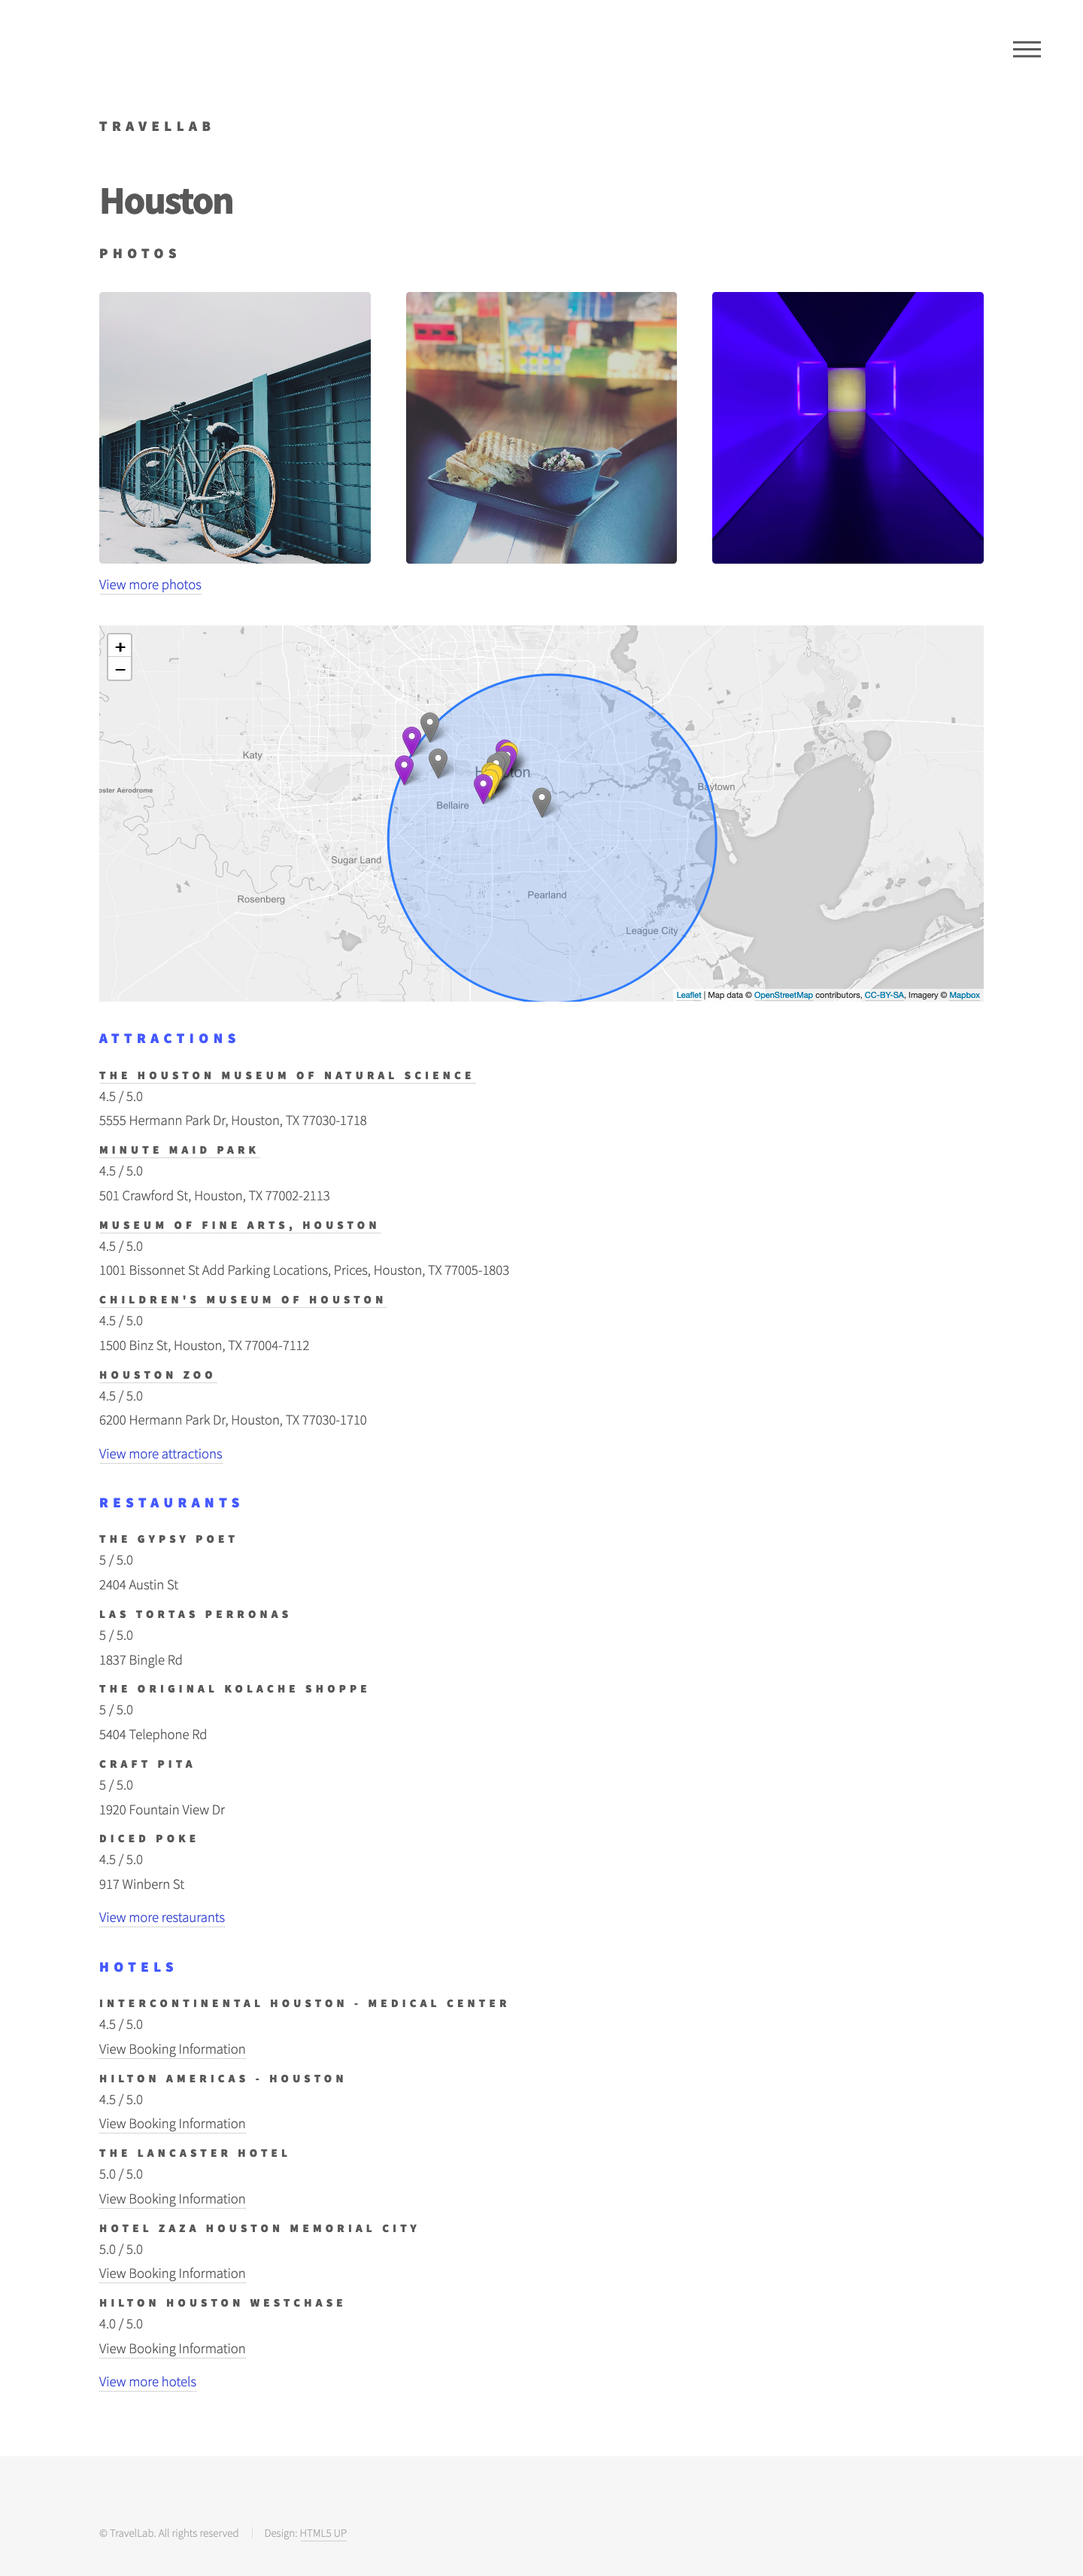
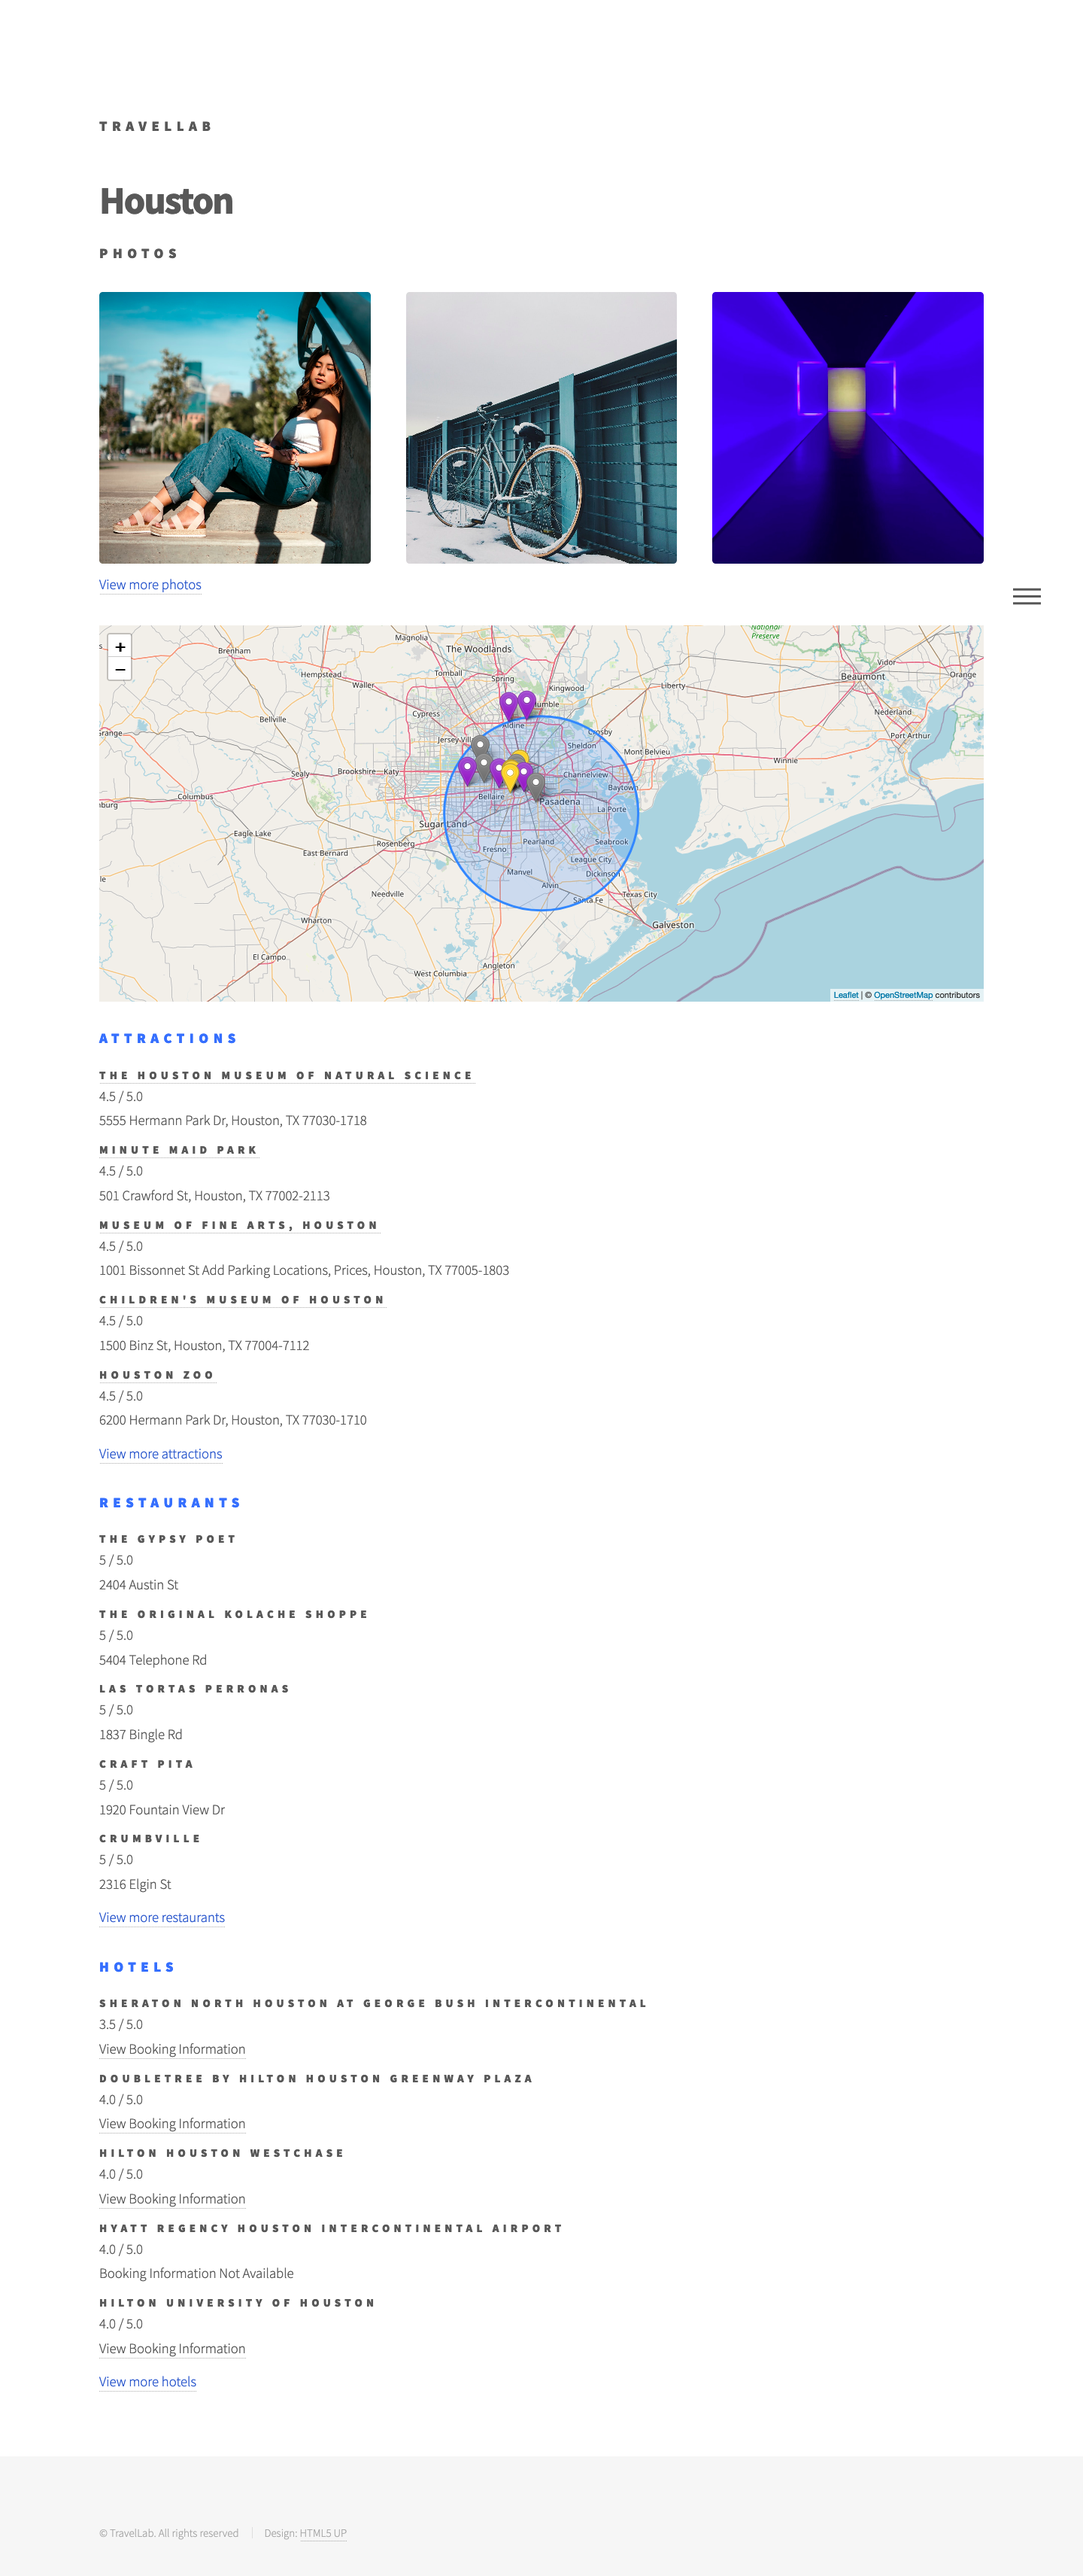
Updated map to display properly and updated result image to reflect changes.

diff --git a/static/js/results.js b/static/js/results.js
@@ -23,11 +23,9 @@ window.onload = function () {
 
     var circle_marker = new L.circle();
 
-    L.tileLayer('https://api.tiles.mapbox.com/v4/{id}/{z}/{x}/{y}.png?access_token={accessToken}', {
-        attribution: 'Map data &copy; <a href="http://openstreetmap.org">OpenStreetMap</a> contributors, <a href="http://creativecommons.org/licenses/by-sa/2.0/">CC-BY-SA</a>, Imagery © <a href="https://mapbox.com">Mapbox</a>',
+    L.tileLayer('https://{s}.tile.openstreetmap.org/{z}/{x}/{y}.png', {
         maxZoom: 18,
-        id: 'superpikar.n28afi10',
-        accessToken: 'pk.eyJ1Ijoic3VwZXJwaWthciIsImEiOiI0MGE3NGQ2OWNkMzkyMzFlMzE4OWU5Yjk0ZmYzMGMwOCJ9.3bGFHjoSXB8yVA3KeQoOIw'
+        attribution: '&copy; <a href="https://www.openstreetmap.org/copyright">OpenStreetMap</a> contributors'
     }).addTo(map);
 
     var greyIcon = new L.Icon({
